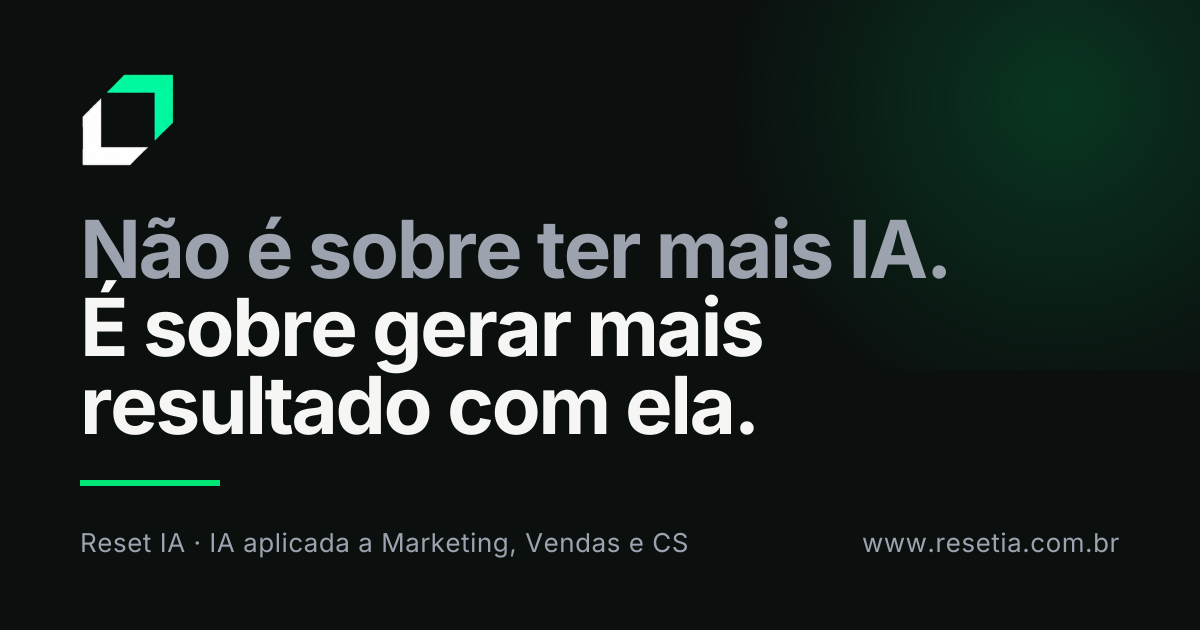
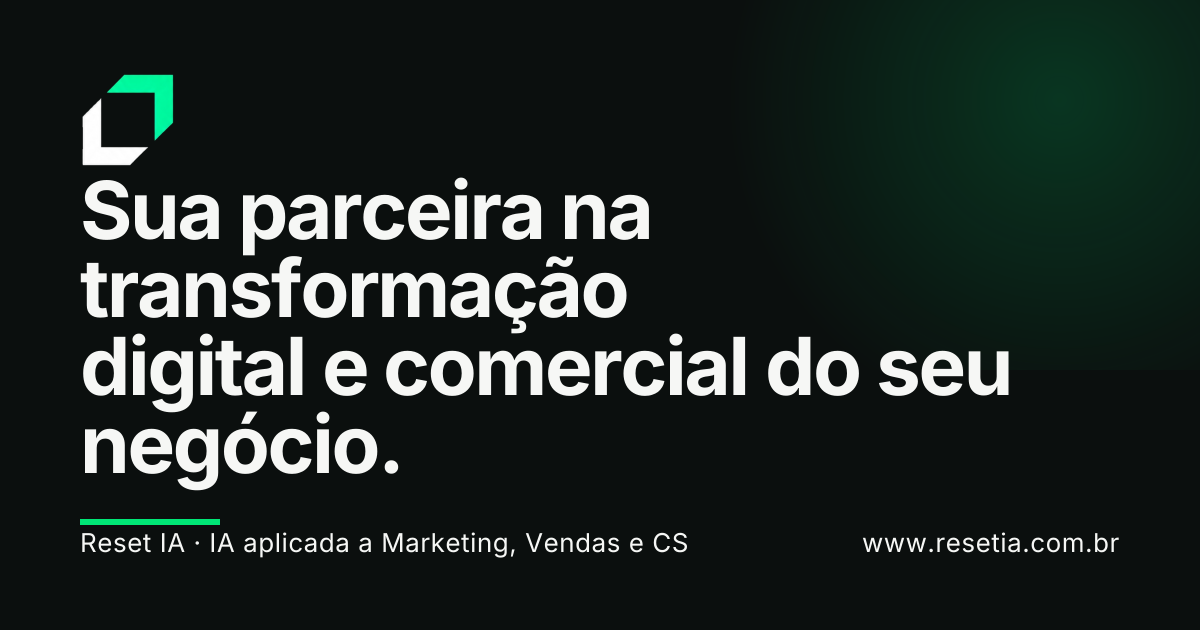
content: novo título do hero e todo o texto em branco
Título principal da home: "Sua parceira na transformação digital e
comercial do seu negócio." (resto do hero igual; imagem de
compartilhamento acompanha). Texto de apoio cinza virou branco em todo
o site (--fg-2 = neutro; text-fg/75–85 → text-fg); cinza só em linhas
e bordas. Baselines visuais regravados.

Changed region(s): [[0.0617, 0.2714, 0.8633, 0.7841], [0.0617, 0.8143, 0.5858, 0.8746], [0.7092, 0.8444, 0.925, 0.8746]]

diff --git a/src/app/sobre/page.tsx b/src/app/sobre/page.tsx
@@ -22,7 +22,7 @@ export default function Sobre() {
   return (
     <main data-tom="carvao" className="text-fg bg-(--bg)">
       <HeroPagina kicker={s.hero.kicker} titulo={<Linhas itens={s.hero.titulo} />} lead={s.hero.lead}>
-        <p className="text-fg/85 max-w-[760px] text-[18px] leading-[1.7]">{s.hero.apoio}</p>
+        <p className="text-fg max-w-[760px] text-[18px] leading-[1.7]">{s.hero.apoio}</p>
       </HeroPagina>
 
       <Section>
@@ -37,7 +37,7 @@ export default function Sobre() {
             {s.historia.paragrafos.map((t) => (
               <p key={t}>{t}</p>
             ))}
-            <p className="border-verde text-fg/85 border-l-2 pl-4 text-[15px]">
+            <p className="border-verde text-fg border-l-2 pl-4 text-[15px]">
               {p.antes} {p.empresas.join(", ").replace(/, ([^,]*)$/, " e $1")}, {p.depois}
             </p>
           </div>
@@ -63,7 +63,7 @@ export default function Sobre() {
                 <div className="p-[30px]">
                   <p className="eyebrow text-verde mb-3 text-[11px]">{f.cargo}</p>
                   <h3 className="mb-5 text-[35px] leading-[1.1] font-bold tracking-[-0.03em]">{f.nome}</h3>
-                  <p className="text-fg/80 mb-4 text-[16px] leading-[1.7]">{f.descricao}</p>
+                  <p className="text-fg mb-4 text-[16px] leading-[1.7]">{f.descricao}</p>
                   <LinkSeta href={f.link.href} className="mt-2">
                     {f.link.label}
                   </LinkSeta>

diff --git a/src/components/layout/Footer.tsx b/src/components/layout/Footer.tsx
@@ -4,7 +4,7 @@ import { footer, site } from "@/content/site";
 import { solucoes } from "@/content/solucoes";
 import { waGeral } from "@/lib/whatsapp";
 
-const linkRodape = "text-fg/75 mb-[9px] block text-[13px]";
+const linkRodape = "text-fg mb-[9px] block text-[13px]";
 
 /** Rodapé: marca, as cinco soluções, Explore e Fale com a Reset; linha legal com a política de privacidade. */
 export function Footer() {
@@ -55,7 +55,7 @@ export function Footer() {
         <span>{footer.legal}</span>
         <span className="flex flex-col gap-2 md:flex-row md:gap-6">
           <span>{footer.aviso}</span>
-          <Link href={footer.privacidade.href} className="text-fg/75">
+          <Link href={footer.privacidade.href} className="text-fg">
             {footer.privacidade.label}
           </Link>
         </span>

diff --git a/src/content/home.ts b/src/content/home.ts
@@ -8,7 +8,7 @@ import type { AreaId, Link } from "./types";
 export const home = {
   hero: {
     eyebrow: "Reset 360 · IA aplicada ao crescimento do negócio",
-    titulo: ["Não é sobre", "ter mais IA.", "*É sobre gerar*", "*mais resultado*", "*com ela.*"],
+    titulo: ["Sua parceira na *transformação digital e comercial* do seu negócio."],
     lead: "Transformamos a forma como empresas trabalham com inteligência artificial. Desenvolvemos líderes, redesenhamos processos e criamos agentes inteligentes para potencializar Marketing, Vendas e Customer Success.",
     /** Abre o WhatsApp com a mensagem do diagnóstico. */
     ctaPrimario: site.ctaDiagnostico,

diff --git a/src/components/sections/shared/CardSolucao.tsx b/src/components/sections/shared/CardSolucao.tsx
@@ -20,7 +20,7 @@ function CardSolucao({ s, detalhado = false }: { s: Solucao; detalhado?: boolean
       <h3 className="mt-6 mb-2.5 text-[24px] leading-[1.15] font-bold tracking-[-0.02em]">{s.nome}</h3>
       <p className="text-fg-2 text-[15px] leading-[1.6]">{s.frase}</p>
       {detalhado ? (
-        <ul className="text-fg/80 mt-5 flex flex-col gap-1.5 text-[14px]">
+        <ul className="text-fg mt-5 flex flex-col gap-1.5 text-[14px]">
           {s.beneficios.itens.slice(0, 3).map((b) => (
             <li key={b.titulo} className="flex gap-2">
               <span aria-hidden="true" className="text-verde">

diff --git a/src/components/sections/home/Areas.tsx b/src/components/sections/home/Areas.tsx
@@ -30,7 +30,7 @@ export function Areas() {
               <p className="text-verde mt-1 text-[14px] font-semibold">{item.papel}</p>
               <p className="text-fg-2 mt-4 text-[16px] leading-[1.6]">{item.texto}</p>
               <p className="eyebrow text-fg-2 mt-6 mb-2 text-[11px]">{a.exemplosRotulo}</p>
-              <ul className="text-fg/85 flex flex-wrap gap-2 text-[13px]">
+              <ul className="text-fg flex flex-wrap gap-2 text-[13px]">
                 {item.exemplos.map((e) => (
                   <li key={e} className="border-line border px-2.5 py-1">
                     {e}

diff --git a/src/components/sections/home/Hero.tsx b/src/components/sections/home/Hero.tsx
@@ -70,7 +70,7 @@ export function Hero() {
             <span className="bg-verde inline-block size-[7px] rounded-full shadow-[0_0_12px_#00e676]" />
             {h.eyebrow}
           </p>
-          <h1 className="mb-[30px] text-[clamp(40px,5vw,74px)] leading-[1.02] font-bold tracking-[-0.04em]">
+          <h1 className="mb-[30px] text-[clamp(38px,4.4vw,64px)] leading-[1.04] font-bold tracking-[-0.035em]">
             <Linhas itens={h.titulo} />
           </h1>
           <p className="text-fg-2 max-w-[550px] text-[18px] leading-[1.75]">{h.lead}</p>

diff --git a/src/app/solucoes/[slug]/page.tsx b/src/app/solucoes/[slug]/page.tsx
@@ -228,7 +228,7 @@ export default async function SolucaoPagina({ params }: PageProps<"/solucoes/[sl
             ))}
           </ul>
           {s.entregaveis.nota ? (
-            <p className="border-verde text-fg/85 mt-6 max-w-[90ch] border-l-2 pl-4 text-[15px] leading-[1.6]">
+            <p className="border-verde text-fg mt-6 max-w-[90ch] border-l-2 pl-4 text-[15px] leading-[1.6]">
               {s.entregaveis.nota}
             </p>
           ) : null}

diff --git a/src/components/layout/Header.tsx b/src/components/layout/Header.tsx
@@ -32,7 +32,7 @@ export function Header() {
               aria-current={pathname === l.href ? "page" : ativo ? "true" : undefined}
               className={cn(
                 "border-b-2 py-1 text-[14px] font-medium transition-colors",
-                ativo ? "border-verde text-fg" : "text-fg/80 border-transparent",
+                ativo ? "border-verde text-fg" : "text-fg border-transparent",
               )}
             >
               {l.label}

diff --git a/src/app/globals.css b/src/app/globals.css
@@ -30,7 +30,8 @@
 [data-tom="carvao"] {
   --bg: #0b0f0e;
   --fg: #f6f7f5;
-  --fg-2: #9ca3af;
+  /* Texto de apoio em branco (pedido do Diego, 27/10): no fundo preto lê melhor que o cinza. Linhas continuam cinza. */
+  --fg-2: #f6f7f5;
   --line: rgba(156, 163, 175, 0.25);
 }
 

diff --git a/docs/brand.md b/docs/brand.md
@@ -11,7 +11,7 @@ Desde 25/10/2026 o layout, a estrutura e os efeitos seguem `design/reset360/`; a
 | verde reset | `#00E676` | acento único: CTAs, numerais, traços, foco. **Nunca fundo de seção inteira.** |
 | cinza       | `#9CA3AF` | texto secundário em fundo escuro                                              |
 
-Derivados só por opacidade (nunca inventar hex novo): texto secundário `#9CA3AF`; linhas `rgba(156,163,175,.25)`. O site é todo escuro, como o protótipo; as superfícies são neutro sobre carvão (`color-mix`): seção **escura** 3%, seção de **contraste** 5%, **painel** (cards) 7%. Tokens `bg-escuro`, `bg-contraste`, `bg-painel` em `globals.css`.
+Derivados só por opacidade (nunca inventar hex novo). **Todo texto é branco (neutro `#F6F7F5`)**, inclusive o de apoio (`text-fg-2`), a pedido do Diego em 27/10: no fundo preto lê melhor que o cinza. O cinza `#9CA3AF` fica só nas linhas e bordas (`rgba(156,163,175,.25)`). O site é todo escuro, como o protótipo; as superfícies são neutro sobre carvão (`color-mix`): seção **escura** 3%, seção de **contraste** 5%, **painel** (cards) 7%. Tokens `bg-escuro`, `bg-contraste`, `bg-painel` em `globals.css`.
 
 Glow (`radial-gradient` verde a 10–16%, transparente a partir de ~40–55%): no hero da home, no topo das páginas internas, no bloco do RESET Scan, no hub do diagrama e nas faixas do diagnóstico. Nenhum outro gradiente, exceto a grade sutil do hero (linhas a 2,5% de neutro).
 

diff --git a/docs/decisions.md b/docs/decisions.md
@@ -123,3 +123,7 @@ O Diego mandou o texto completo de cada produto. As landing pages passaram a seg
 ## 2026-10-27 · Cargos, descrições e foto da Élida
 
 Élida Almeida é Co-founder & CEO e Diego Nogueira é Co-founder & CTO (texto do Diego). Os dois aparecem nessa ordem no Sobre e na home, cada um com uma descrição curta no lugar das bios longas do brief de 26/10; o cargo também entra no JSON-LD (`jobTitle`). A foto da Élida (`design/fotos/elida.png`, 800×800) é recortada no rosto pelo `npm run images` e substitui o monograma.
+
+## 2026-10-27 · Título do hero e texto branco
+
+Título principal da home: "Sua parceira na transformação digital e comercial do seu negócio." (destaque verde em "transformação digital e comercial"); o resto do hero não muda. A imagem de compartilhamento acompanha o título. Todo texto cinza virou branco (`--fg-2` passou a neutro e os `text-fg/75–85` viraram `text-fg`); o cinza continua só nas linhas e bordas.
